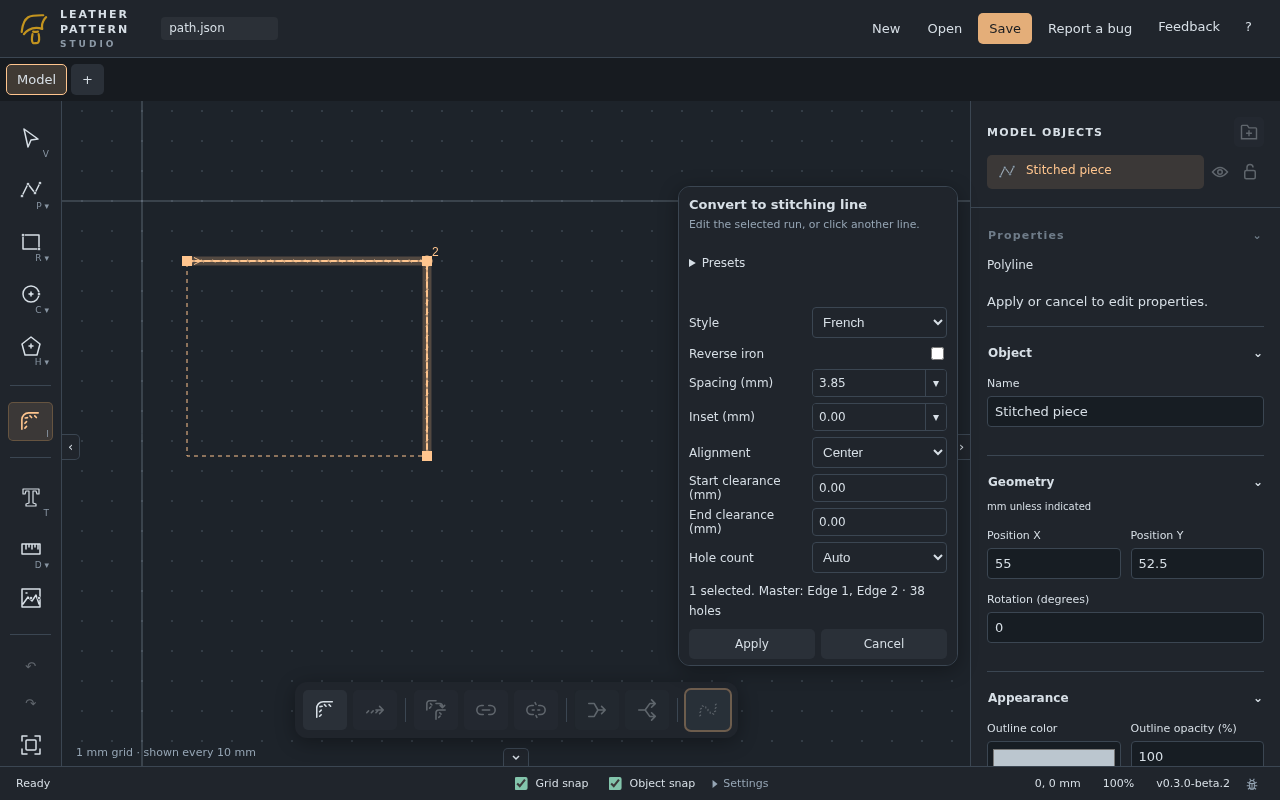
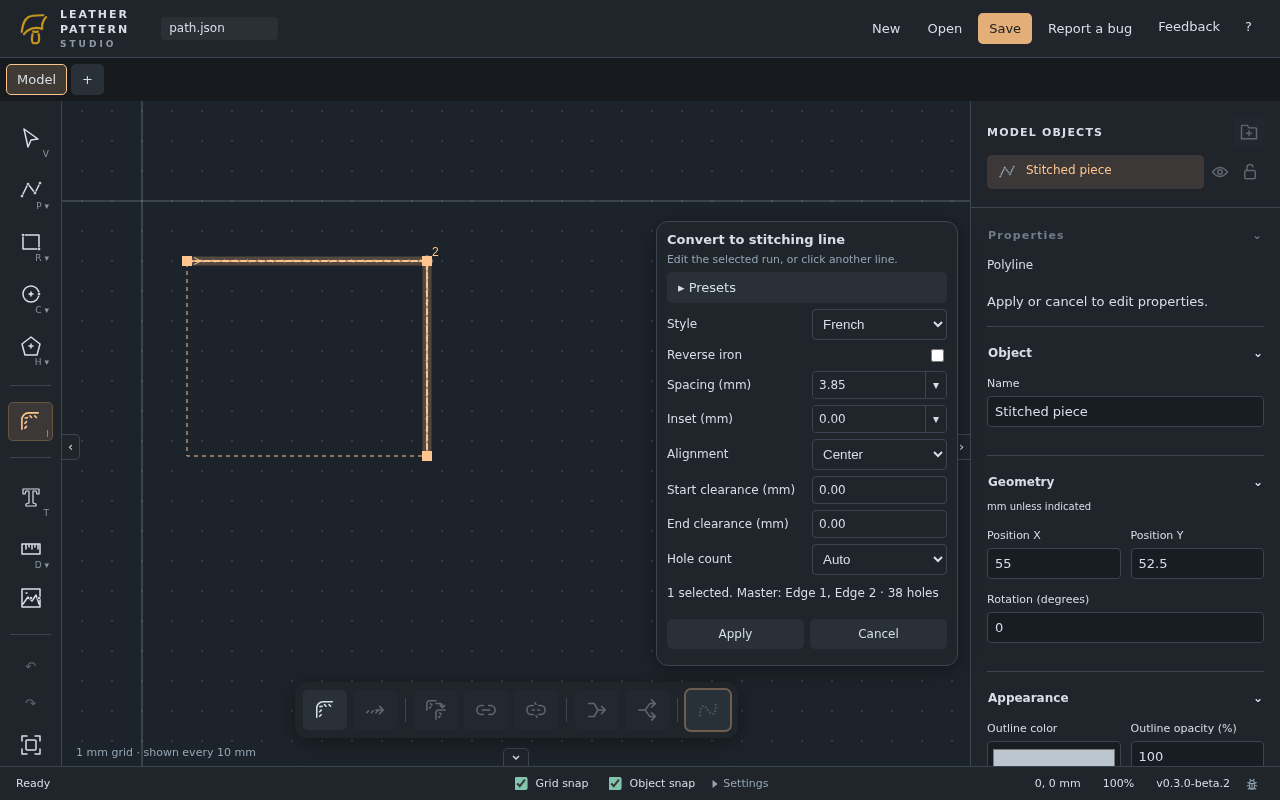
Move stitching presets into an attached panel

diff --git a/src/vue/StitchPresetManager.vue b/src/vue/StitchPresetManager.vue
@@ -10,11 +10,13 @@ const props = defineProps<{ settings: StitchSettings }>();
 const e = useEditor(), chosen = ref(""), name = ref(""), action = ref<"save" | "rename" | null>(null), error = ref("");
 const nameInput=ref<HTMLInputElement>();
 watch(action, value => { if(value) void nextTick(() => nameInput.value?.focus()); });
-function escape(event: KeyboardEvent) { if(action.value) { event.preventDefault(); event.stopPropagation(); action.value=null; error.value=""; } }
-const scope = ref<"project" | "browser">("browser");
+function escape(event: KeyboardEvent) { if(action.value || incoming.value) { event.preventDefault(); event.stopPropagation(); action.value=null; incoming.value=null; error.value=""; void nextTick(()=>toggle.value?.focus()); } else if(open.value) { event.preventDefault(); event.stopPropagation(); close(); } }
+const open = ref(false);
+const toggle=ref<HTMLButtonElement>();
+function close() { open.value=false; action.value=null; incoming.value=null; error.value=""; void nextTick(()=>toggle.value?.focus()); }
 const library = ref<StitchPreset[]>([]);
 try { library.value = readStitchPresets(); } catch { error.value = "My presets could not be loaded from this browser."; }
-watch(scope, () => { chosen.value=""; action.value=null; error.value=""; });
+
 const presets = computed(() => library.value);
 async function store(presets: StitchPreset[]) {
 
@@ -73,7 +75,10 @@ function exportFile() {
 </script>
 <template>
   <div class="stitch-presets" @keydown.enter.stop @keydown.esc="escape">
-    <details><summary>Presets</summary>
+    <button ref="toggle" type="button" class="preset-toggle" :aria-expanded="open" aria-controls="stitch-preset-panel" @click="open ? close() : open=true"><span aria-hidden="true">{{ open ? "◂" : "▸" }}</span> <span>Presets</span></button>
+    <Teleport defer to="#stitch-panel-anchor">
+    <section tabindex="-1" v-if="open" @keydown.enter.stop @keydown.esc="escape" id="stitch-preset-panel" class="preset-panel transform-options" aria-label="Stitch presets">
+    <strong>Stitch presets</strong>
     <label>Load preset<select aria-label="Load stitch preset" :value="chosen" :disabled="e.busy || !presets.length" @change="apply"><option value="">Choose a preset…</option><option v-for="preset in presets" :key="preset.name">{{ preset.name }}</option></select></label>
     <small v-if="!presets.length">No saved presets. Save the current settings below or import a backup.</small>
 
@@ -96,15 +101,19 @@ function exportFile() {
       <label>Import mode<select v-model="importMode" aria-label="Preset import mode"><option value="merge">Merge</option><option value="replace">Replace all presets</option></select></label>
       <button type="submit">{{ importMode==='replace' ? 'Replace library' : 'Merge presets' }}</button><button type="button" @click="incoming=null">Cancel import</button>
     </form>
-    </details>
+
     <small v-if="status" role="status">{{ status }}</small>
     <p v-if="error" role="alert">{{ error }}</p>
+    </section>
+    </Teleport>
   </div>
 </template>
 <style scoped>
-.stitch-presets label {display:flex;align-items:center;justify-content:space-between;gap:8px;}
-.stitch-presets select,.stitch-presets input:not([type=file]) {width:135px;box-sizing:border-box;background:var(--panel);color:var(--text);border:1px solid var(--border);border-radius:4px;padding:6px;}
-.stitch-presets summary {cursor:pointer;font-size:12px;padding:4px 0;}
+.preset-panel label {display:flex;align-items:center;justify-content:space-between;gap:8px;}
+.preset-panel select,.preset-panel input:not([type=file]) {width:135px;box-sizing:border-box;background:var(--panel);color:var(--text);border:1px solid var(--border);border-radius:4px;padding:6px;}
+.preset-toggle {align-self:start;text-align:left;}
+.preset-panel {position:absolute;right:calc(100% + 8px);top:0;box-sizing:border-box;width:302px;max-height:100%;}
+@container stitch-panels (max-width: 620px) { .preset-panel {right:0;top:auto;bottom:calc(100% + 8px);max-height:30vh;max-width:100%;} }
 .stitch-presets { display:grid; gap:8px; }
 .actions { display:flex; flex-wrap:wrap; gap:6px; }
 form { display:grid; gap:8px; }

diff --git a/tests/stitch.spec.ts b/tests/stitch.spec.ts
@@ -234,7 +234,7 @@ test("browser preset export restores a deleted library through import review",as
  await page.getByRole("button",{name:"Export presets",exact:true}).click();
  const backup=await readFile((await (await download).path())!,"utf8");
  expect(JSON.parse(backup).format).toBe("leather-stitch-presets");
- await page.locator(".stitch-presets").getByRole("button",{name:"Delete",exact:true}).click();
+ await page.getByRole("region",{name:"Stitch presets",exact:true}).getByRole("button",{name:"Delete",exact:true}).click();
  await expect(page.getByLabel("Load stitch preset",{exact:true})).toBeDisabled();
  const chooser=page.waitForEvent("filechooser");await page.getByRole("button",{name:"Import presets",exact:true}).click();
  await (await chooser).setFiles({name:"backup.json",mimeType:"application/json",buffer:Buffer.from(backup)});
@@ -242,4 +242,31 @@ test("browser preset export restores a deleted library through import review",as
  await page.getByRole("button",{name:"Replace library",exact:true}).click();
  await page.getByLabel("Load stitch preset",{exact:true}).selectOption({label:"Backup iron"});
  await expect(page.getByLabel("Stitch spacing",{exact:true})).toHaveValue("3.85");
+});
+
+test("presets attach without enlarging settings and Escape closes only presets", {tag:"@manual"}, async ({ page }) => {
+  await setup(page);
+  await page.getByLabel("Pattern drawing canvas").click({position:{x:125,y:240}});
+  const settings=page.getByRole("region",{name:"Stitch line settings",exact:true});
+  const toggle=page.getByRole("button",{name:"Presets",exact:true});
+  const before=await settings.boundingBox();
+  await toggle.click();
+  const panel=page.getByRole("region",{name:"Stitch presets",exact:true});
+  await expect(panel).toBeVisible();
+  await manualScreenshot(page,"stitch-presets.png");
+  const after=await settings.boundingBox(),presetBox=await panel.boundingBox();
+  expect(after!.height).toBeCloseTo(before!.height,0);
+  expect(presetBox!.x+presetBox!.width).toBeLessThanOrEqual(after!.x);
+  await page.getByRole("button",{name:"Save as…",exact:true}).click();
+  await page.getByLabel("Stitch preset name").press("Escape");
+  await expect(panel).toBeVisible();
+  await panel.press("Escape");
+  await expect(panel).toBeHidden();
+  await expect(toggle).toBeFocused();
+  await expect(settings).toBeVisible();
+  await page.setViewportSize({width:760,height:800});
+  await toggle.click();
+  const narrow=await panel.boundingBox(),main=await settings.boundingBox();
+  expect(narrow!.y+narrow!.height).toBeLessThanOrEqual(main!.y);
+  expect(narrow!.x).toBeGreaterThanOrEqual(0);
 });

diff --git a/src/style.css b/src/style.css
@@ -1081,3 +1081,11 @@ aside .inspector-hint dd { opacity: .8; }
 /* Stitch settings remain above their wider operation toolbar. */
 .transform-overlay:has(.stitch-toolbar) { flex-direction:column; }
 .transform-overlay > .stitch-options { bottom:72px; }
+
+.transform-overlay { container-type:inline-size; container-name:stitch-panels; }
+.stitch-panel-anchor { position:absolute;right:0;bottom:72px;width:302px;max-width:100%;pointer-events:none; }
+.stitch-panel-anchor > .stitch-options {pointer-events:auto;box-sizing:border-box;width:100%;}
+.stitch-panel-anchor .preset-panel {pointer-events:auto;}
+@container stitch-panels (max-width:620px) {
+  .stitch-panel-anchor:has(.preset-panel) > .stitch-options {max-height:30vh;}
+}

diff --git a/src/vue/StitchToolbox.vue b/src/vue/StitchToolbox.vue
@@ -110,6 +110,7 @@ const warnings = computed(() =>
 );
 </script>
 <template>
+  <div id="stitch-panel-anchor" class="stitch-panel-anchor">
   <section
     v-if="e.stitchMode && e.stitchTool"
     :key="`${e.stitchTool}:${selected?.id ?? 'defaults'}`"
@@ -244,6 +245,7 @@ const warnings = computed(() =>
       ><button @click="cancelDraft()">Cancel</button>
     </div>
   </section>
+  </div>
 </template>
 <style scoped>
 .stitch-options { max-height: min(60vh, calc(100vh - 220px)); }

diff --git a/docs/manual/stitching.md b/docs/manual/stitching.md
@@ -119,6 +119,8 @@ Add run, Edit path and Delete are no longer toolbar tools. Continue run is avail
 
 DEL immediately removes selected lines in one undo step. Use Select (V) to edit path geometry. Ctrl/⌘+wheel always zooms during transfer placement; ordinary wheel rotates, Shift uses 5° steps and Alt bypasses snapping. Ctrl rotation is removed.
 
-Expand **Presets** to load or manage presets; it is collapsed initially. Presets are saved in this browser only. The Presets section contains Save as, Update, Rename, Delete, Export presets and Import presets. Export downloads all presets. Import previews the incoming library and offers safe Merge or explicit Replace all presets. Legacy project presets can be imported through that same review.
+Open **Presets** to load or manage presets in an attached box to the left of the settings. On narrow canvases it opens above them. It starts closed; use the same button or Escape to close it. Presets are saved in this browser only. The Presets section contains Save as, Update, Rename, Delete, Export presets and Import presets. Export downloads all presets. Import previews the incoming library and offers safe Merge or explicit Replace all presets. Legacy project presets can be imported through that same review.
 
 Continue run requires a fixed-count preceding section. Its new continuation can use Auto count. If an edited gap does not fit, its preview remains editable; reduce the gap or count before applying. Transfer hover shares one receiving-geometry snapshot between rendering and settings. Movement can snap compatible horizontal and vertical edges at the same time in Model, transfer placement and print layouts. Keyboard shortcuts are listed in the right-side Tool help rather than in the settings box. Standalone converted paths do not generate material-edge warnings.
+
+![Preset panel beside stitching settings](images/stitch-presets.png)

diff --git a/docs/manual/shortcuts.md b/docs/manual/shortcuts.md
@@ -124,3 +124,5 @@ In Stitch line, click a free part of a partially stitched edge for an independen
 Continue run is available in the stitching toolbar as an alternative to Shift-click continuation. Stitching shortcut instructions are shown in Tool help. Simultaneous X/Y alignment follows the same snapping policy in Model, transfer placement and print layouts.
 
 For Transfer stitching, left-click places the hovering preview without committing. Further left-clicks reposition it. Apply, right-click or Enter confirms only after placement; Escape cancels. Rotation after placement keeps its center fixed. Continue run requires a fixed-count preceding section with space remaining.
+
+In the attached stitching Presets panel, Escape cancels an open naming or import form first. Otherwise it closes the panel and returns focus to Presets, leaving the stitching preview active.
